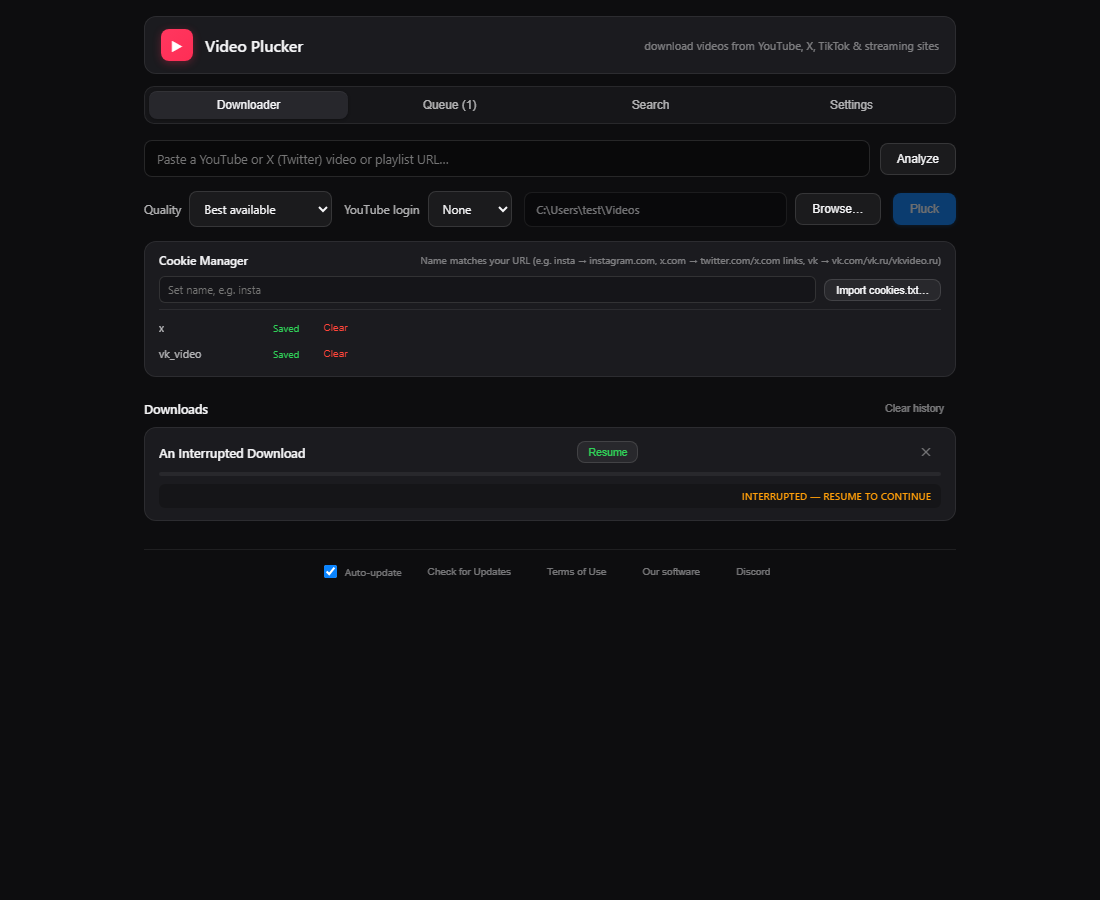
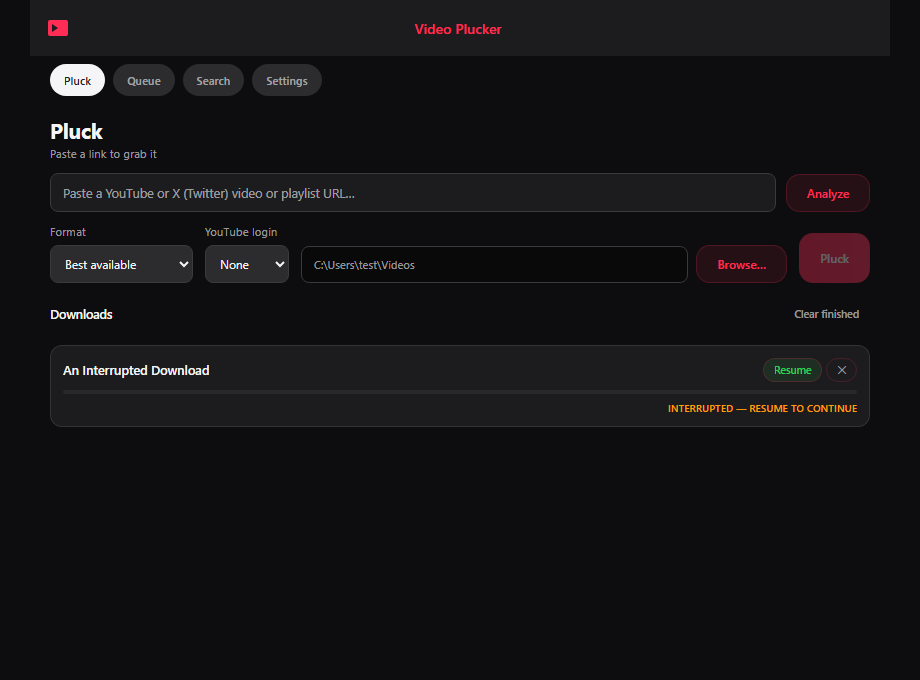
test(ui): assert the desktop contract and regenerate before/after shots
19 smoke checks against DESIGN.md: tokens, rail, tables, status bar, no uppercase,
no gradient on buttons, window controls call hide for close-to-tray. Shots taken at the
real 920x680 window, before (main) and after (this branch).

diff --git a/tests/ui-smoke.spec.js b/tests/ui-smoke.spec.js
@@ -6,21 +6,25 @@ import { dirname, join } from "node:path";
 const here = dirname(fileURLToPath(import.meta.url));
 
 /**
- * The contract checks. These fail on a design change that the DESIGN.md review
- * missed, which is the whole point: a screenshot diff catches what looks wrong,
- * a token assertion catches what drifted.
+ * The contract checks, against DESIGN.md (the canonical desktop contract).
+ * A screenshot diff catches what looks wrong; these catch what drifted.
  */
 
-// From DESIGN.md section 2 (Theme.kt). Hex, because an unregistered custom
-// property resolves to its declared token rather than to rgb().
+// DESIGN.md §2. Hex, because an unregistered custom property resolves to its
+// declared token rather than to rgb().
 const CONTRACT = {
-  "--accent": "#ff2d55", // #FF2D55
-  "--bg": "#0d0d0f", // #0D0D0F
-  "--panel": "#1c1c1e", // #1C1C1E
-  "--panel-2": "#2c2c2e", // #2C2C2E
-  "--text": "#f5f5f7", // #F5F5F7
-  "--ok": "#30d158", // #30D158
-  "--warn": "#ff9f0a", // #FF9F0A
+  "--bg": "#0f1115",
+  "--surface": "#14171c",
+  "--surface-hover": "#191d23",
+  "--overlay": "#1b2027",
+  "--line": "#242a32",
+  "--text": "#e6e9ef",
+  "--text-2": "#9aa4b2",
+  "--accent": "#ff2d55",
+  "--accent-fill": "#e01e45",
+  "--ok": "#3fb950",
+  "--warn": "#e3a008",
+  "--error": "#ff7b72",
 };
 
 test.beforeEach(async ({ page }) => {
@@ -33,50 +37,29 @@ test.beforeEach(async ({ page }) => {
 
   await page.addInitScript({ path: join(here, "tauri-stub.js") });
   await page.goto("/");
-  // The app boots asynchronously (three stores, then renders).
-  await expect(page.locator("#plucks .job-card")).toHaveCount(1);
+  // The app boots asynchronously (stores, then render).
+  await expect(page.locator("#plucks tr.row")).toHaveCount(1);
 });
 
 test.afterEach(async ({ page }) => {
   expect(page.__errors, "page logged errors during the test").toEqual([]);
 });
 
-test("design tokens match DESIGN.md", async ({ page }) => {
-  const actual = await page.evaluate(() => {
+test("design tokens match DESIGN.md §2", async ({ page }) => {
+  const actual = await page.evaluate((names) => {
     const styles = getComputedStyle(document.documentElement);
     const out = {};
-    for (const name of Object.keys({
-      "--accent": 1,
-      "--bg": 1,
-      "--panel": 1,
-      "--panel-2": 1,
-      "--text": 1,
-      "--ok": 1,
-      "--warn": 1,
-    })) {
+    for (const name of names) {
       out[name] = styles.getPropertyValue(name).trim().toLowerCase();
     }
     return out;
-  });
+  }, Object.keys(CONTRACT));
 
   expect(actual).toEqual(CONTRACT);
 });
 
-test("the accent is the phone's red, not the old blue", async ({ page }) => {
-  // The desktop app was #0a84ff throughout. One assertion names that directly so a
-  // regression says what regressed.
-  const accent = await page.evaluate(() =>
-    getComputedStyle(document.documentElement)
-      .getPropertyValue("--accent")
-      .trim()
-      .toLowerCase(),
-  );
-  expect(accent).not.toContain("0a84ff");
-});
-
-test("the accent token actually reaches a painted element", async ({ page }) => {
-  // A token can be correct in :root and still be unused, which is how the pink logo
-  // gradient survived as the app's only brand colour for a whole release.
+test("the accent token reaches a painted element", async ({ page }) => {
+  // A token can be correct in :root and still be unused.
   const painted = await page.evaluate(() => {
     const probe = document.createElement("span");
     probe.style.color = "var(--accent)";
@@ -88,9 +71,22 @@ test("the accent token actually reaches a painted element", async ({ page }) => 
   expect(painted).toBe("rgb(255, 45, 85)");
 });
 
+test("white text sits only on the AA-passing fill, not the brand red", async ({ page }) => {
+  // White on --accent is 3.64:1. The primary button must use --accent-fill.
+  const bg = await page.evaluate(
+    () => getComputedStyle(document.getElementById("analyze-btn")).backgroundColor,
+  );
+  // The analyze button is a secondary control; check a primary one instead.
+  const primary = await page.evaluate(
+    () => getComputedStyle(document.getElementById("pluck-btn")).backgroundColor,
+  );
+  expect(primary).toBe("rgb(224, 30, 69)");
+  expect(bg).not.toBe("rgb(255, 45, 85)");
+});
+
 test("every cached getElementById in main.js resolves", async ({ page }) => {
-  // main.js caches ~40 elements at module scope and dereferences them immediately.
-  // A renamed id is a null dereference on boot, which this catches before a user does.
+  // main.js caches its elements at module scope and dereferences them on boot.
+  // A renamed id is a null dereference that the user meets first.
   const source = await readFile(join(here, "..", "src", "main.js"), "utf8");
   const ids = [...source.matchAll(/getElementById\("([^"]+)"\)/g)].map((m) => m[1]);
 
@@ -102,16 +98,15 @@ test("every cached getElementById in main.js resolves", async ({ page }) => {
   expect(missing, "ids referenced by main.js but absent from index.html").toEqual([]);
 });
 
-test("dead classes are gone", async ({ page }) => {
-  // .glossy-btn shipped on 20 elements with no CSS rule behind it after the 4.7.0
-  // rewrite. Harmless today, a trap the next person copies.
-  const glossy = await page.evaluate(
-    () => document.querySelectorAll(".glossy-btn").length,
-  );
-  expect(glossy).toBe(0);
+test("the rail has four destinations and exactly one is active", async ({ page }) => {
+  // DESIGN.md §5: a rail, not pill chips.
+  await expect(page.locator(".rail .rail-item")).toHaveCount(4);
+  await expect(page.locator(".rail .rail-item.active")).toHaveCount(1);
+  await expect(page.locator(".rail .rail-item.active")).toHaveAttribute("aria-current", "page");
+  await expect(page.locator(".pill-chip, .pill-row")).toHaveCount(0);
 });
 
-test("each tab shows its view and moves the active pill", async ({ page }) => {
+test("each rail item shows its view and moves the active marker", async ({ page }) => {
   const tabs = [
     ["nav-download", "view-download"],
     ["nav-queue", "view-queue"],
@@ -123,14 +118,13 @@ test("each tab shows its view and moves the active pill", async ({ page }) => {
     await page.locator(`#${navId}`).click();
     await expect(page.locator(`#${viewId}`)).toBeVisible();
     await expect(page.locator(`#${navId}`)).toHaveClass(/active/);
-    // Exactly one pill is active at a time.
-    await expect(page.locator(".pill-chip.active")).toHaveCount(1);
+    await expect(page.locator(".rail-item.active")).toHaveCount(1);
   }
 });
 
-test("downloads live under Pluck and nowhere else", async ({ page }) => {
-  // Mobile shows downloads inside the Pluck tab. They used to sit outside the view
-  // system, so they rendered on the Search and Settings tabs too.
+test("downloads are a table with a header, and live under Pluck", async ({ page }) => {
+  // DESIGN.md §6.2: tables, with a sticky head.
+  await expect(page.locator("#downloads-table thead th")).not.toHaveCount(0);
   const insidePluck = await page.evaluate(
     () => !!document.querySelector("#view-download #plucks"),
   );
@@ -145,42 +139,87 @@ test("downloads live under Pluck and nowhere else", async ({ page }) => {
   }
 });
 
-test("every screen has a title and a subtitle", async ({ page }) => {
-  const views = [
-    "view-download",
-    "view-queue",
-    "view-search",
-    "view-settings",
-  ];
-  for (const id of views) {
-    const texts = await page.evaluate((viewId) => {
-      const view = document.getElementById(viewId);
-      return {
-        title: view.querySelector(".screen-title")?.textContent?.trim() ?? "",
-        sub: view.querySelector(".screen-sub")?.textContent?.trim() ?? "",
-      };
-    }, id);
-    expect(texts.title, `#${id} has no screen title`).not.toBe("");
-    expect(texts.sub, `#${id} has no screen subtitle`).not.toBe("");
+test("body rows stay within the §4 row height bound", async ({ page }) => {
+  const heights = await page.evaluate(() =>
+    [...document.querySelectorAll("#plucks tr.row")].map((r) => r.getBoundingClientRect().height),
+  );
+  for (const h of heights) expect(h).toBeLessThanOrEqual(36);
+});
+
+test("status bar shows engine state and the running version", async ({ page }) => {
+  // DESIGN.md §5: the status bar is always present and reports the version.
+  await expect(page.locator(".statusbar")).toBeVisible();
+  await expect(page.locator("#status-engine")).not.toHaveText("");
+  await expect(page.locator("#status-version")).toHaveText("v4.9.0");
+});
+
+test("no text is rendered uppercase (§3)", async ({ page }) => {
+  const count = await page.evaluate(() => {
+    let n = 0;
+    for (const el of document.querySelectorAll("body *")) {
+      if (getComputedStyle(el).textTransform === "uppercase") n++;
+    }
+    return n;
+  });
+  expect(count).toBe(0);
+});
+
+test("no button uses a gradient (§10)", async ({ page }) => {
+  const count = await page.evaluate(() => {
+    let n = 0;
+    for (const el of document.querySelectorAll("button")) {
+      if (getComputedStyle(el).backgroundImage !== "none") n++;
+    }
+    return n;
+  });
+  expect(count).toBe(0);
+});
+
+test("every screen has a title", async ({ page }) => {
+  for (const id of ["view-download", "view-queue", "view-search", "view-settings"]) {
+    const title = await page.evaluate(
+      (viewId) => document.getElementById(viewId).querySelector(".view-title")?.textContent?.trim() ?? "",
+      id,
+    );
+    expect(title, `#${id} has no view title`).not.toBe("");
   }
 });
 
-test("a job row does not overflow its card", async ({ page }) => {
-  // The controls used to be bare siblings in a space-between row with no wrap, which
-  // overflowed once more than three were showing at once.
+test("settings are two panes, and the section list switches them", async ({ page }) => {
+  await page.locator("#nav-settings").click();
+  await expect(page.locator(".settings-nav .settings-nav-item")).toHaveCount(5);
+  await expect(page.locator("#pane-downloads")).toBeVisible();
+
+  await page.locator('.settings-nav-item[data-pane="pane-cookies"]').click();
+  await expect(page.locator("#pane-cookies")).toBeVisible();
+  await expect(page.locator("#pane-downloads")).toBeHidden();
+});
+
+test("the Windows window controls call the frameless verbs", async ({ page }) => {
+  // The stub reports the Windows user agent by default, so the controls show.
+  await expect(page.locator("#window-controls")).toBeVisible();
+  await page.locator("#win-minimize").click();
+  await page.locator("#win-close").click();
+
+  const log = await page.evaluate(() => window.__invokeLog.map((c) => c.cmd));
+  expect(log).toContain("window.minimize");
+  // Close must hide, not destroy: hide-to-tray is the app's behaviour.
+  expect(log).toContain("window.hide");
+});
+
+test("a job row does not overflow its table", async ({ page }) => {
   const overflow = await page.evaluate(() => {
-    const head = document.querySelector("#plucks .job-head");
-    return head.scrollWidth - head.clientWidth;
+    const table = document.getElementById("downloads-table");
+    return table.scrollWidth - table.clientWidth;
   });
   expect(overflow).toBeLessThanOrEqual(0);
 });
 
 test("export sends the arguments the Rust command declares", async ({ page }) => {
-  // Tauri rejects a call missing one of the command's parameters at the boundary, with
-  // an error that reads like a filesystem failure. export_dump takes settings and
-  // parked as well as a path; sending only the path fails after the file dialog closes,
-  // which is the worst possible moment to find out.
+  // export_dump takes settings and parked as well as a path; a call that omits
+  // one fails after the file dialog closes, which is the worst moment to learn.
   await page.locator("#nav-settings").click();
+  await page.locator('.settings-nav-item[data-pane="pane-backup"]').click();
   await page.locator("#export-dump-btn").click();
   await expect(page.locator("#dump-status")).toBeVisible();
 
@@ -194,10 +233,8 @@ test("export sends the arguments the Rust command declares", async ({ page }) =>
 });
 
 test("import persists what the command returned", async ({ page }) => {
-  // The settings store is a frontend store, so the command cannot write it. If the
-  // returned prefs are dropped on the floor the import reports success and restores
-  // nothing, which is the worst failure mode this feature has.
   await page.locator("#nav-settings").click();
+  await page.locator('.settings-nav-item[data-pane="pane-backup"]').click();
   await page.locator("#import-dump-btn").click();
   await expect(page.locator("#dump-status")).toContainText("1 setting");
 
@@ -218,15 +255,15 @@ test("import persists what the command returned", async ({ page }) => {
 test("a restored queue item downloads into the current folder, not an empty one", async ({
   page,
 }) => {
-  // restored_queue_items emits destDir: "" because the dump format has nowhere to put one.
-  // Passed through untouched it becomes `yt-dlp -P ""`, which resolves to whatever
-  // directory the app happened to launch in.
+  // restored_queue_items emits destDir: "". Passed through it becomes
+  // `yt-dlp -P ""`, which resolves to whatever directory the app launched in.
   await page.locator("#nav-settings").click();
+  await page.locator('.settings-nav-item[data-pane="pane-backup"]').click();
   await page.locator("#import-dump-btn").click();
   await expect(page.locator("#dump-status")).toContainText("1 setting");
 
   await page.locator("#nav-queue").click();
-  await page.locator(".queue-start").first().click();
+  await page.locator(".row-action").first().click();
 
   const started = await page.evaluate(() => {
     const call = window.__invokeLog.find((c) => c.cmd === "start_pluck");
@@ -250,7 +287,7 @@ test("screenshots", async ({ page }, testInfo) => {
     await page.locator(`#${navId}`).click();
     await page.waitForTimeout(120);
     await testInfo.attach(`${name}.png`, {
-      body: await page.screenshot({ fullPage: true }),
+      body: await page.screenshot(),
       contentType: "image/png",
     });
   }

diff --git a/tests/tauri-stub.js b/tests/tauri-stub.js
@@ -104,7 +104,7 @@ window.__TAURI__ = {
             { id: "allanime", label: "AllAnime", available: false },
           ];
         case "get_app_version":
-          return "4.8.0";
+          return "4.9.0";
         case "consume_deep_link":
           // No deep link pending in a test session.
           return null;
@@ -120,7 +120,7 @@ window.__TAURI__ = {
             cookieFiles: 2,
             queueItems: 1,
             skippedQueueItems: 0,
-            appVersion: "4.8.0",
+            appVersion: "4.9.0",
           };
         case "import_dump":
           // Mirrors ImportResult in src-tauri/src/dump.rs, including the queue record's
@@ -206,12 +206,25 @@ window.__TAURI__ = {
   },
   app: {
     async getVersion() {
-      return "4.8.0";
+      return "4.9.0";
     },
   },
   updater: {
     async check() {
       return { shouldUpdate: false };
+    },
+  },
+  // The frameless window API. Recorded so a test can assert that the custom
+  // controls call the right window verb; hide() is what keeps close-to-tray.
+  window: {
+    getCurrentWindow() {
+      return {
+        minimize: async () => invokeLog.push({ cmd: "window.minimize", args: {} }),
+        toggleMaximize: async () => invokeLog.push({ cmd: "window.toggleMaximize", args: {} }),
+        hide: async () => invokeLog.push({ cmd: "window.hide", args: {} }),
+        isMaximized: async () => false,
+        onResized: async () => () => {},
+      };
     },
   },
 };
